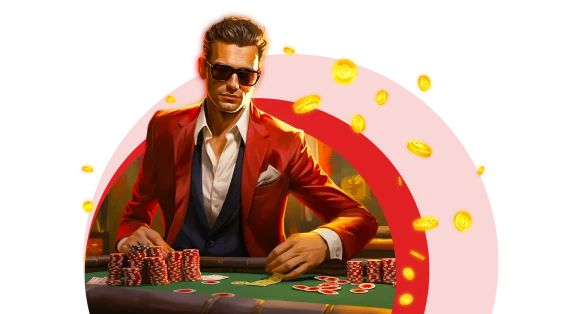
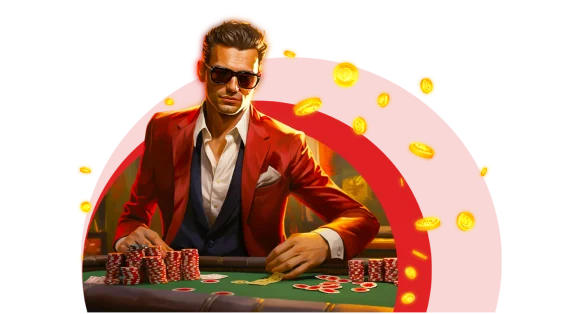
fix: fixes after qa

diff --git a/src/components/welcome/WelcomeSection.module.scss b/src/components/welcome/WelcomeSection.module.scss
@@ -17,9 +17,14 @@
   & :global(.container) {
     width: 100%;
   }
-  @media (max-width: 1100px) {
-    background-position: right 20px top 0;
+
+  @media (max-width: 1180px) {
+    background-position: right 70px top 0;
   }
+
+  // @media (max-width: 1100px) {
+  //   background-position: right 20px top 0;
+  // }
 
   @media (max-width: 1020px) {
     background-position: right 20px top 80px;
@@ -39,10 +44,14 @@
     background-size: auto 63%;
   }
 
-  @media (max-width: 420px) {
+  @media (max-width: 540px) {
     margin: 0 auto 72px auto;
     background-size: auto 50%;
     padding-top: 14.35rem;
+  }
+
+  @media (max-width: 400px) {
+    padding-top: 13.3rem;
   }
 }
 

diff --git a/src/components/header/Header.module.scss b/src/components/header/Header.module.scss
@@ -14,14 +14,14 @@
     margin-left: 65px;
     scale: 2.02;
 
-    @media (max-width: 768px) {
+    @media (max-width: 850px) {
       margin-top: -6px;
       margin-left: 27px;
       scale: 1.43;
     }
   }
 
-  @media (max-width: 980px) {
+  @media (max-width: 1080px) {
     padding: 24px 40px;
   }
 

diff --git a/src/components/mobile-version/MobileSection.scss b/src/components/mobile-version/MobileSection.scss
@@ -50,7 +50,7 @@
       font-family: $font-primary;
       font-size: 24px;
       font-style: normal;
-      font-weight: 400;
+      font-weight: 500;
       line-height: normal;
     }
   }

diff --git a/src/components/bonus-details/BonusDetailsSection.scss b/src/components/bonus-details/BonusDetailsSection.scss
@@ -217,6 +217,7 @@
 
     button {
       width: auto !important;
+      padding: 0 10px !important;
     }
   }
 
